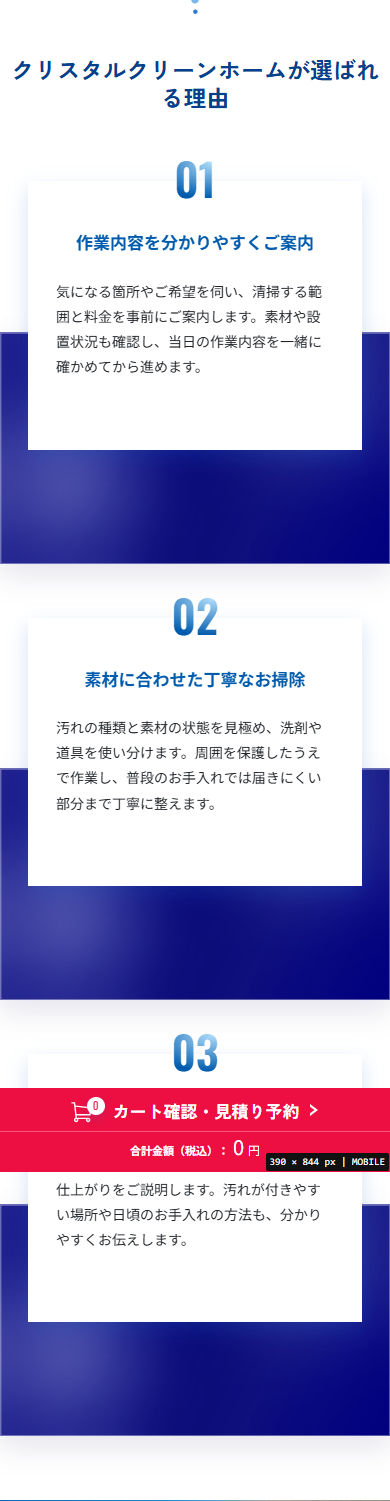
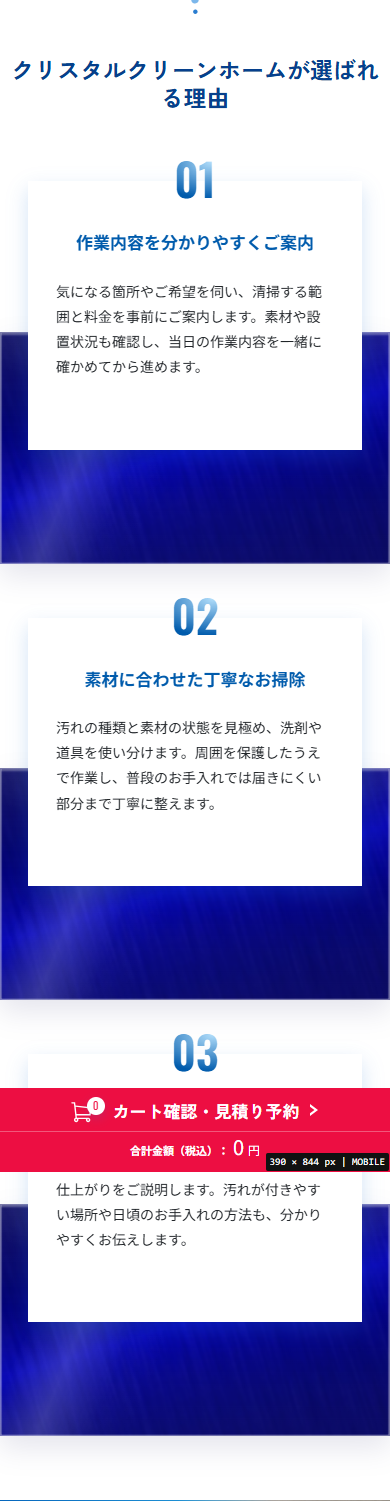
feat(aircon): rotate supplied navy texture across three glass panels
Keep the reason cards and other service pages intact; verify 46 page structures, manifest integrity, and desktop/mobile renders.

Related: CHG-2026-10-02-057

diff --git a/source/site/assets/css/service-pages.css b/source/site/assets/css/service-pages.css
@@ -58,13 +58,32 @@
 
 .c-service-page .c-reasons--glass-preview .c-reasons__item {
   isolation: isolate;
-  background-image:
-    radial-gradient(ellipse 28% 48% at 18% 66%, rgba(210, 220, 255, .68), transparent 100%),
-    radial-gradient(ellipse 32% 52% at 79% 22%, rgba(132, 155, 224, .52), transparent 100%),
-    linear-gradient(120deg, #000080, #08086e 58%, #000080);
-  background-position: bottom;
-  background-repeat: no-repeat;
-  background-size: 100% 298px;
+  --glass-height: 298px;
+}
+
+.c-service-page .c-reasons--glass-preview .c-reasons__glass {
+  position: absolute;
+  bottom: 0;
+  left: 0;
+  z-index: 0;
+  display: flex;
+  align-items: center;
+  justify-content: center;
+  overflow: hidden;
+  width: 100%;
+  height: var(--glass-height);
+  background: #000080;
+  container-type: inline-size;
+}
+
+.c-service-page .c-reasons--glass-preview .c-reasons__glass-image {
+  display: block;
+  flex: none;
+  width: var(--glass-height);
+  height: 100cqw;
+  max-width: none;
+  object-fit: cover;
+  transform: rotate(90deg);
 }
 
 .c-service-page .c-reasons--glass-preview .c-reasons__card {
@@ -79,18 +98,21 @@
   width: 100%;
   height: 298px;
   z-index: 1;
-  background: rgba(0, 0, 128, .38);
-  border: 1px solid rgba(255, 255, 255, .35);
-  box-shadow: inset 0 1px 0 rgba(255, 255, 255, .28), inset 1px 0 0 rgba(255, 255, 255, .14), 0 12px 28px rgba(0, 0, 80, .1);
-  -webkit-backdrop-filter: blur(24px);
-  backdrop-filter: blur(24px);
+  background: rgba(0, 0, 128, .14);
+  border: 1px solid rgba(255, 255, 255, .42);
+  box-shadow: inset 0 2px 2px rgba(255, 255, 255, .32), inset 1px 0 0 rgba(255, 255, 255, .18), inset -1px 0 0 rgba(255, 255, 255, .16), inset 0 -1px 0 rgba(255, 255, 255, .12), 0 12px 28px rgba(0, 0, 80, .1);
+  -webkit-backdrop-filter: blur(1.5px);
+  backdrop-filter: blur(1.5px);
   pointer-events: none;
 }
 
 .c-service-page .c-reasons--glass-preview .c-reasons__item::after {
   z-index: 1;
-  background: linear-gradient(116deg, rgba(255, 255, 255, .21), transparent 38%, rgba(255, 255, 255, .07) 70%, transparent);
-  opacity: .6;
+  background:
+    linear-gradient(112deg, transparent 16%, rgba(255, 255, 255, .22) 27%, rgba(255, 255, 255, .03) 38%, transparent 46%),
+    radial-gradient(ellipse 72% 32% at 48% 0, rgba(255, 255, 255, .22), transparent 84%),
+    linear-gradient(to bottom, rgba(255, 255, 255, .08), transparent 44%, rgba(255, 255, 255, .045));
+  opacity: .8;
 }
 
 .recommend-plan__heading,
@@ -130,7 +152,7 @@
 
 @media (max-width: 767.98px) {
   .c-service-page .c-reasons--glass-preview .c-reasons__item {
-    background-size: 100% 232px;
+    --glass-height: 232px;
   }
 
   .c-service-page .c-reasons__item::after,

diff --git a/source/site/house-cleaning/aircon/index.html b/source/site/house-cleaning/aircon/index.html
@@ -40,7 +40,7 @@
 <link rel="stylesheet" href="https://fonts.googleapis.com/css2?family=Noto+Sans+JP:wght@400;500;700&amp;family=Zen+Kaku+Gothic+New:wght@400;500;700&amp;display=swap">
 <link rel="stylesheet" href="/assets/css/site-typography.css?v=20261001">
 <script type="module" src="/assets/js/shared-translation-control.js"></script>
-<link rel="stylesheet" href="/assets/css/service-pages.css?v=2026100207"/>
+<link rel="stylesheet" href="/assets/css/service-pages.css?v=2026100209"/>
 </head>
   <body>
       <header class="c-header">
@@ -311,19 +311,19 @@
 <h3 class="c-reason-card__heading">作業内容を分かりやすくご案内</h3>
 <p class="c-reason-card__description">気になる箇所やご希望を伺い、清掃する範囲と料金を事前にご案内します。素材や設置状況も確認し、当日の作業内容を一緒に確かめてから進めます。</p>
 </div>
-</div>
+<div aria-hidden="true" class="c-reasons__glass"><img alt="" class="c-reasons__glass-image" decoding="async" height="1309" loading="lazy" src="/assets/images/reasons/navy-glass-vertical.png" width="736"/></div></div>
 <div class="c-reasons__item">
 <div class="c-reason-card c-reasons__card">
 <h3 class="c-reason-card__heading">素材に合わせた丁寧なお掃除</h3>
 <p class="c-reason-card__description">汚れの種類と素材の状態を見極め、洗剤や道具を使い分けます。周囲を保護したうえで作業し、普段のお手入れでは届きにくい部分まで丁寧に整えます。</p>
 </div>
-</div>
+<div aria-hidden="true" class="c-reasons__glass"><img alt="" class="c-reasons__glass-image" decoding="async" height="1309" loading="lazy" src="/assets/images/reasons/navy-glass-vertical.png" width="736"/></div></div>
 <div class="c-reasons__item">
 <div class="c-reason-card c-reasons__card">
 <h3 class="c-reason-card__heading">仕上がりとお手入れを確認</h3>
 <p class="c-reason-card__description">作業を終えた箇所を一緒にご覧いただき、仕上がりをご説明します。汚れが付きやすい場所や日頃のお手入れの方法も、分かりやすくお伝えします。</p>
 </div>
-</div>
+<div aria-hidden="true" class="c-reasons__glass"><img alt="" class="c-reasons__glass-image" decoding="async" height="1309" loading="lazy" src="/assets/images/reasons/navy-glass-vertical.png" width="736"/></div></div>
 </div>
 </div>
 </div>

diff --git a/tools/build_service_pages.py b/tools/build_service_pages.py
@@ -304,6 +304,10 @@ def reasons(shared, glass_preview=False):
         item.select_one('p').string = words[1]
         if glass_preview:
             item.select_one('img').decompose()
+            glass = tag('div', 'c-reasons__glass', **{'aria-hidden': 'true'})
+            texture = tag('img', 'c-reasons__glass-image', src='/assets/images/reasons/navy-glass-vertical.png', alt='', width='736', height='1309', loading='lazy', decoding='async')
+            glass.append(texture)
+            item.append(glass)
         else:
             image(item.select_one('img'), scenes[i], '')
     return n
@@ -431,7 +435,7 @@ def render(route, page, catalogue, copy):
     normalize_text(main)
     output, count = re.subn(r'<main\b[^>]*>.*?</main>',lambda _:str(main),original,count=1,flags=re.S)
     assert count == 1, route
-    css_version = '2026100207' if route == 'aircon' else '2026100202'
+    css_version = '2026100209' if route == 'aircon' else '2026100202'
     if '/assets/css/service-pages.css' not in output:
         output = output.replace('</head>',f'<link rel="stylesheet" href="/assets/css/service-pages.css?v={css_version}"/>\n</head>')
     output = re.sub(r'/assets/css/service-pages\.css\?v=\d+',
@@ -447,6 +451,7 @@ def sync_manifest(routes, check):
     manifest = json.loads(path.read_text(encoding='utf-8'))
     files = [SITE / 'house-cleaning' / route / 'index.html' for route in routes]
     files += list((SITE / 'assets/images/service-scenes').glob('*.webp'))
+    files += [SITE / 'assets/images/reasons/navy-glass-vertical.png']
     files += [SITE / 'assets/css/service-pages.css', SITE / 'assets/css/common.css']
     changed = []
     for file in files:
@@ -457,7 +462,7 @@ def sync_manifest(routes, check):
         if not records:
             url = manifest['origin'].rstrip('/') + '/' + rel
             record = {'path':rel, 'effective_url':url, 'status':200,
-                      'content_type':'image/webp' if file.suffix == '.webp' else 'text/css',
+                      'content_type':{'.webp':'image/webp','.png':'image/png'}.get(file.suffix,'text/css'),
                       'origin_type':'local-service-page'}
             manifest['files'][url] = record
             records = [record]

diff --git a/tools/verify_deployed_site.py b/tools/verify_deployed_site.py
@@ -73,7 +73,7 @@ if __name__ == "__main__":
         site = ROOT / 'source/site'
         PATHS += ['/' + p.relative_to(site).as_posix().removesuffix('index.html') for p in site.rglob('*.html')]
         PATHS += ['/' + p.relative_to(site).as_posix() for p in (site / 'assets/images/service-scenes').glob('*.webp')]
-        PATHS += ['/assets/css/service-pages.css']
+        PATHS += ['/assets/css/service-pages.css', '/assets/images/reasons/navy-glass-vertical.png']
         PATHS = list(dict.fromkeys(PATHS))
     with ThreadPoolExecutor(max_workers=4) as pool:
         checks = list(pool.map(check, PATHS + EXCLUDED))
@@ -86,7 +86,7 @@ if __name__ == "__main__":
             ["git", "-C", str(ROOT), "rev-parse", "HEAD:source/site"], text=True).strip(),
         "checks": checks,
         "passed": all(check["passed"] for check in checks) and build["status"] == "built",
-        "scope": "All published HTML and service photographs plus representative assets and exclusions; backend and all-page visual acceptance are not included." if args.all_pages else "Representative HTTP responses and excluded paths; backend and all-page visual acceptance are not included."
+        "scope": "All published HTML, service photographs, glass texture, representative assets and exclusions; backend and all-page visual acceptance are not included." if args.all_pages else "Representative HTTP responses and excluded paths; backend and all-page visual acceptance are not included."
     }
     (ROOT / "source/deployment-verification.json").write_text(
         json.dumps(report, ensure_ascii=False, indent=2), encoding="utf-8")

diff --git a/tools/verify_service_pages.py b/tools/verify_service_pages.py
@@ -49,11 +49,12 @@ for route,page in catalogue['pages'].items():
     if route not in voice_profiles or len(voice_profiles[route]) != 6 or any(not fact.strip() for fact in voice_profiles[route]):
         fail(route,'service voice profile')
     reason_images = [img.get('src') for img in main.select('.c-reasons__bg')]
+    glass_images = main.select('.c-reasons__glass-image')
     expected_reasons = [f'/assets/images/service-scenes/reason-{name}.webp' for name in ('mop-bucket','carpet-extractor','floor-polisher')]
     if route == 'aircon':
-        if reason_images or not main.select_one('.c-reasons--glass-preview'):
-            fail(route,'photo-free navy glass reason preview')
-    elif reason_images != expected_reasons or main.select_one('.c-reasons--glass-preview'):
+        if reason_images or not main.select_one('.c-reasons--glass-preview') or len(glass_images) != 3 or any(img.get('src') != '/assets/images/reasons/navy-glass-vertical.png' or img.get('alt') != '' for img in glass_images):
+            fail(route,'three textured navy glass panels')
+    elif reason_images != expected_reasons or main.select_one('.c-reasons--glass-preview') or glass_images:
         fail(route,'shared reason photographs')
     ids = [n['id'] for n in main.select('[id]')]
     if len(ids) != len(set(ids)): fail(route,'duplicate IDs')

diff --git a/Crystal-Clean-Home_仕様書.md b/Crystal-Clean-Home_仕様書.md
@@ -22,7 +22,7 @@
 - `/house-cleaning/aircon/` を除く45サービスページで同じ3点を左から順に表示する。①泡の入った青いバケツとモップを近い俯瞰で、②カーペットの洗浄ノズルと吸引される泡を床面の低い位置から、③泡の上で動く床洗浄機を斜め上から写す。道具と清掃面が一目で分かる距離・角度にし、人物・手・ロゴは含めない。
 - 実写調で現場の質感を残し、写真部分に薄いグレーの透過層を重ねる。カード3件の文章・位置・寸法は既存の構造を使う。画像ファイルは `source/site/assets/images/service-scenes/reason-{mop-bucket,carpet-extractor,floor-polisher}.webp`。
 - この3点を含むサービス写真には人物・手を写さないルールを適用する。
-- [変更 2026-10-02 / CHG-2026-10-02-056] `/house-cleaning/aircon/` の試作では、各カードの背後に独立した3枚のネイビーのすりガラス面を置く。清掃写真・質感用画像ファイルは使わず、CSSで作ったネイビーの光の濃淡を `#000080` の半透明層とぼかし越しに見せる。粒模様は使わず、白い反射と縁は控えめにする。PC・スマホともガラス面同士を離して表示し、白いカード3件の構造と文章は維持する。
+- [変更 2026-10-02 / CHG-2026-10-02-057] `/house-cleaning/aircon/` の試作では、各カードの背後に独立した3枚のネイビーのガラス面を置く。背面には利用者が提供した紺色の光沢テクスチャー1点をCSSで90度回転して横向きに収め、`#000080` の半透明層、弱いぼかし、ガラスの縁と反射を重ねる。清掃写真は使用しない。PC・スマホともガラス面同士を離して表示し、白いカード3件の構造と文章は維持する。
 
 ## エアコンの組み合わせプラン
 

diff --git a/Crystal-Clean-Home_要件定義書.md b/Crystal-Clean-Home_要件定義書.md
@@ -68,4 +68,5 @@
 - [旧試作 2026-10-02 / CHG-2026-10-02-053・後続のCHG-054で撤回] `/house-cleaning/aircon/` だけで連続した淡い帯を試したが、3枚の分離と指定色・透明感を満たさなかった。連続帯は実装側の解釈であり、人間の指定ではない。
 - [旧試作 2026-10-02 / CHG-2026-10-02-054・後続のCHG-055で更新] 連続帯を3枚に分離したが、背面の清掃写真を残したのは実装側の誤解だった。
 - [旧試作 2026-10-02 / CHG-2026-10-02-055・後続のCHG-056で更新] エアコンページの清掃写真と質感用画像を除外し、3枚のガラス面に分離した。薄紫に見えた色と粒模様は後続で修正した。
-- [変更 2026-10-02 / CHG-2026-10-02-056] CHG-055の薄紫に見える色と粒模様を更新する。エアコンページの3枚のガラス面は指定の navy `#000080` が見た目にも分かる濃さとし、CSSで作る背後の光の濃淡を半透明層越しにぼかして見せる。写真・画像ファイルは使用せず、他45ページと白いカードは維持する。
+- [旧試作 2026-10-02 / CHG-2026-10-02-056・後続のCHG-057で更新] エアコンページの3枚のガラス面を指定の navy `#000080` に修正した。CSSだけで作った背面の光の濃淡は後続の指定画像へ置き換えた。
+- [変更 2026-10-02 / CHG-2026-10-02-057] エアコンページの「選ばれる理由」だけで、利用者から提供された縦長の紺色光沢画像を横向きにし、分離した3枚のガラス面の背景に使用する。ネイビー `#000080` の色味と透明なガラスの縁・反射、手前の白いカード3件を維持する。他の45サービスページ、文章、商品、CTAは変更しない。

diff --git a/変更履歴.md b/変更履歴.md
@@ -1,5 +1,17 @@
 # 変更履歴
 
+## CHG-2026-10-02-057 提供された光沢画像をエアコンの3枚のガラス面に横向きで適用
+
+- 決定日：2026-10-02。
+- 人間からの要求：提示した縦長の紺色光沢画像を横向きにして、エアコンページの試作へ反映する。
+- 決定内容：提供画像を素材として保存し、CSSで90度回転して3枚の独立したガラス面の全面に配置する。薄いネイビー層と光沢反射を重ね、手前の白いカードは維持する。
+- 変更理由：無地のガラス面に、指定された横向きの光沢と質感を加えるため。
+- 影響範囲：`/house-cleaning/aircon/` の理由セクション、専用CSS、ページ生成・検査ツール、画像素材1点。
+- 維持する範囲：他の45サービスページ、理由カード3件の文章と配置、商品・料金・CTA。
+- 同期した仕様書：Crystal-Clean-Home_要件定義書.md、Crystal-Clean-Home_仕様書.md。
+- ローカル確認：PC 1581px・スマホ390pxで撮影し、3枚の画像背景に切れ目がないことを確認。
+- 公開確認：確認後に追記。
+
 ## CHG-2026-10-02-056 エアコンのガラス背景を指定のネイビーへ修正
 
 - 決定日：2026-10-02。
